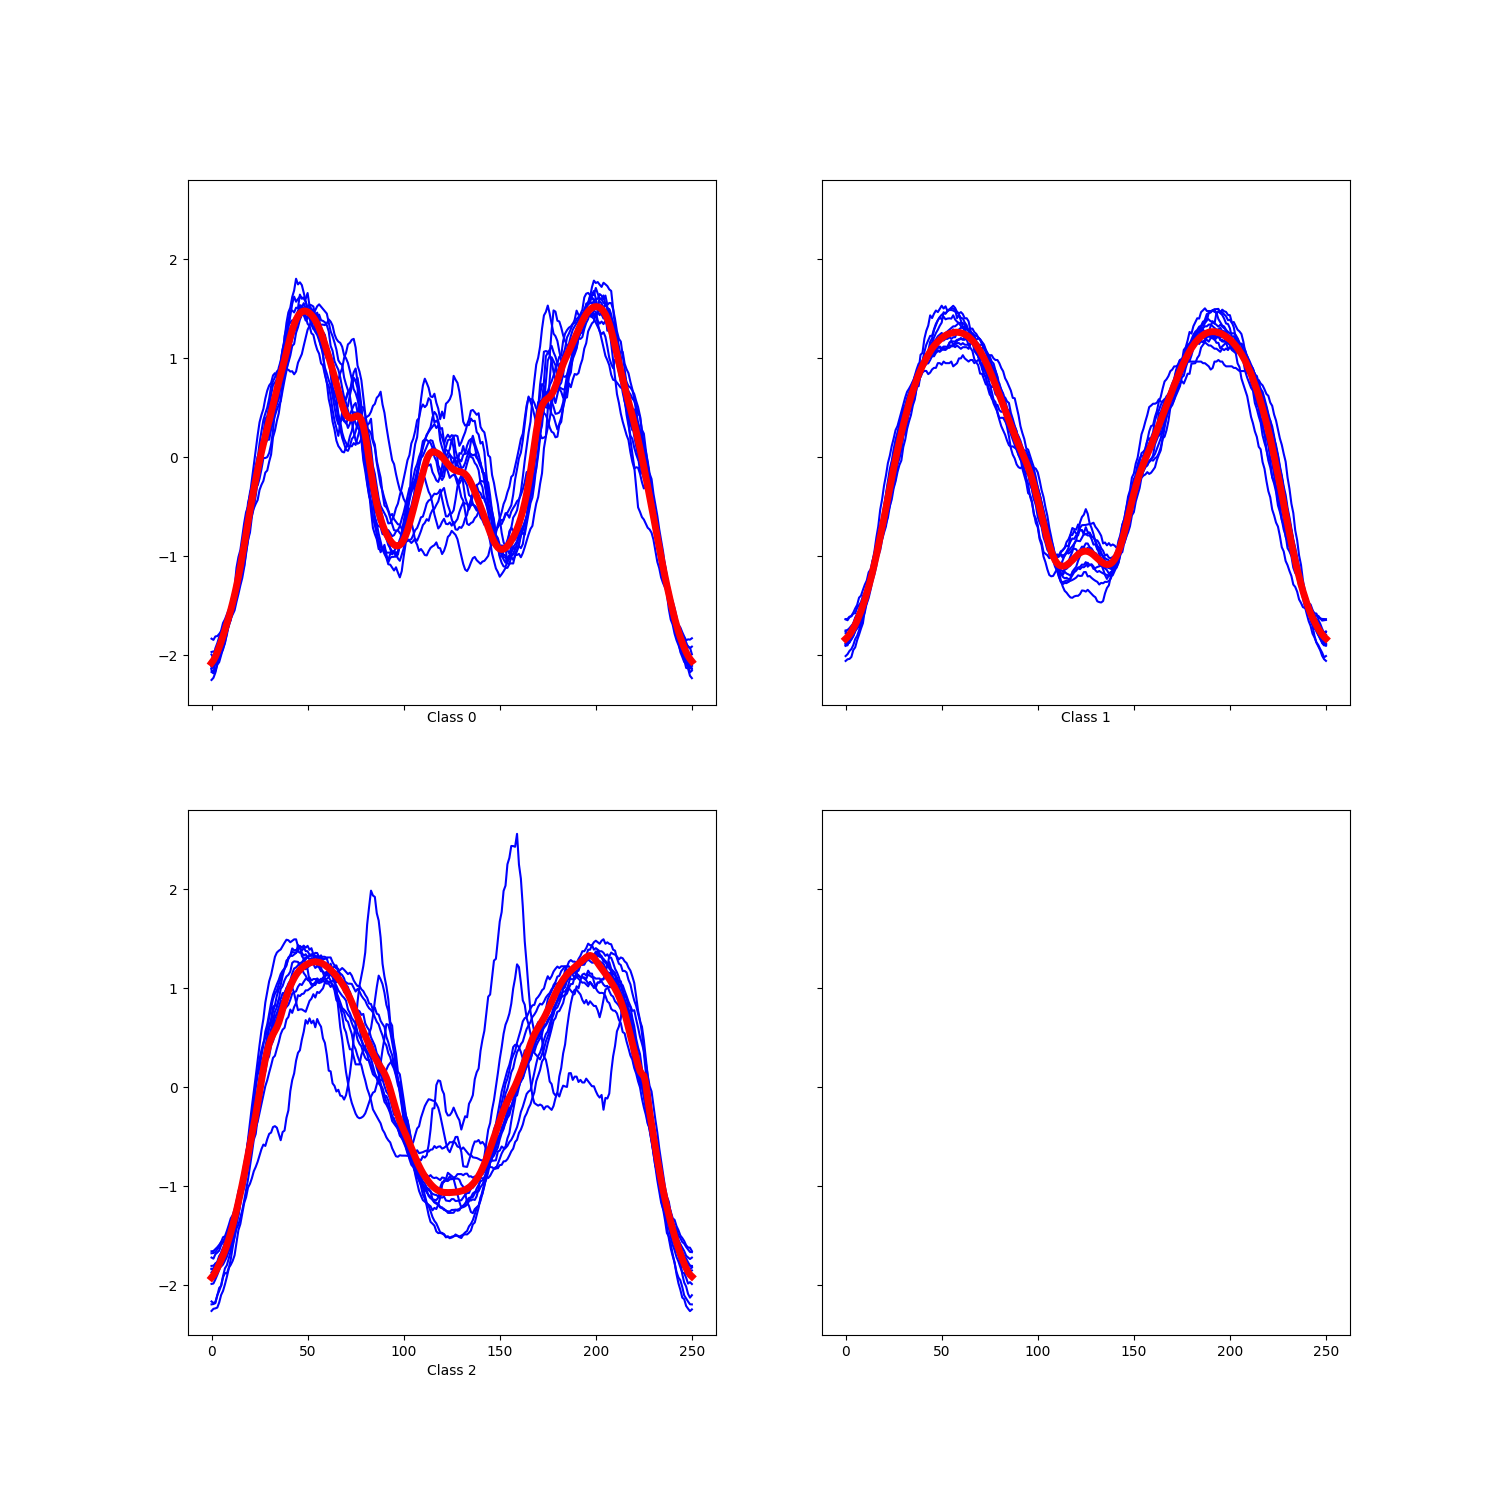
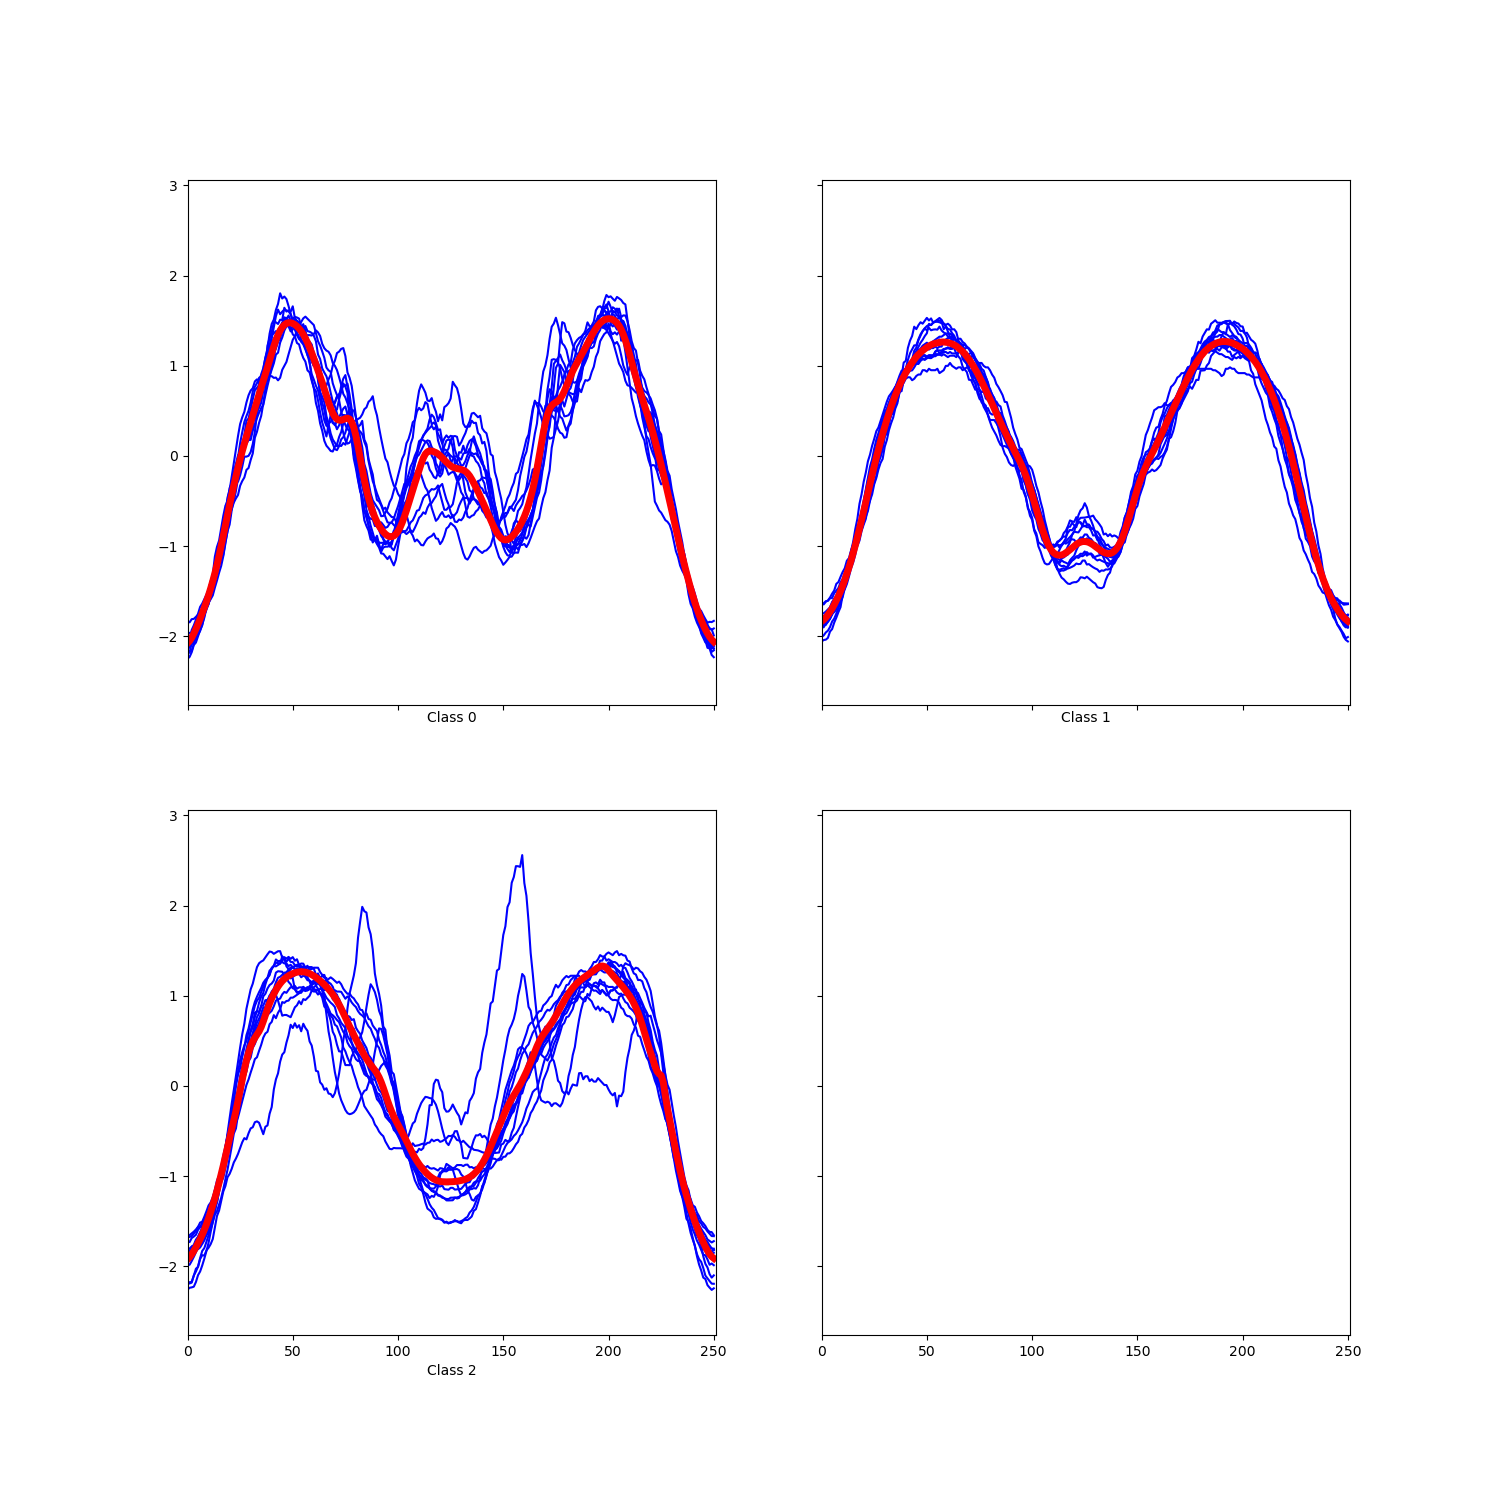
gif

diff --git a/utils.py b/utils.py
@@ -6,6 +6,7 @@ from tslearn.barycenters import softdtw_barycenter
 import matplotlib.pyplot as plt
 import matplotlib.figure as mfig
 from tslearn.metrics import soft_dtw
+import matplotlib.animation as animation
 
 
 def get_labels(y):
@@ -53,6 +54,9 @@ def barrycenters(xtrain, ytrain, labels, num_in_each_label):
 
 
 def draw(xtrain, ytrain, labels, barrycenters, path):
+    x=np.arange(0,int(xtrain.shape[1]),step=1)
+    amin=np.amin(xtrain)
+    amax=np.amax(xtrain)
     N = labels.size
     n = N // 2
     m = N - n
@@ -64,6 +68,8 @@ def draw(xtrain, ytrain, labels, barrycenters, path):
             n, m = m, n
     f, sub = plt.subplots(nrows=2, ncols=n, squeeze=False, sharex=True, sharey=True,figsize=(15,15))
     for i in range(n):
+        sub[0][i].set_xlim(0,len(x))
+        sub[0][i].set_ylim(amin-0.5,amax+0.5)
         for j in range(ytrain.size):
             if (ytrain[j] == labels[i]):
                 sub[0][i].plot(xtrain[j], c="blue")
@@ -71,6 +77,8 @@ def draw(xtrain, ytrain, labels, barrycenters, path):
         str = f"Class {labels[i]}"
         sub[0][i].set_xlabel(str)
     for i in range(m):
+        sub[1][i].set_xlim(0,len(x))
+        sub[1][i].set_ylim(amin-0.5,amax+0.5)
         for j in range(ytrain.size):
             if (ytrain[j] == labels[i + n]):
                 sub[1][i].plot(xtrain[j], c="blue")
@@ -78,10 +86,77 @@ def draw(xtrain, ytrain, labels, barrycenters, path):
         str = f"Class {labels[i + n]}"
         sub[1][i].set_xlabel(str)
     f.savefig(path)
+    # plt.show()
 
+def draw_animation(xtrain, ytrain, labels, barrycenters):
+    intv=10
+    x=np.arange(0,int(xtrain.shape[1]),step=1)
+    amin=np.amin(xtrain)
+    amax=np.amax(xtrain)
+    N = labels.size
+    n = N // 2
+    m = N - n
+    if (N == 2):
+        n = N
+        m = 0
+    elif (N % 2 == 1):
+        if (n < m):
+            n, m = m, n
+    f, sub = plt.subplots(nrows=2, ncols=n, squeeze=False, sharex=True, sharey=True,figsize=(15,15))
+    anim=[]
+    for i in range(n):
+        xtrain_plot=[]
+        sub[0][i].set_xlim(0,len(x))
+        sub[0][i].set_ylim(amin-0.5,amax+0.5)
+        indices=[]
+        for j in range(ytrain.size):
+            if (ytrain[j] == labels[i]):
+                xtrain_plot.append(sub[0][i].plot([],[],color="blue"))
+                indices.append(j)
+        def temp1(i,xtrain_plot,indices,xtrain):
+            def animate1(u):
+                for itr in range(len(xtrain_plot)):
+                    xtrain_plot[itr][0].set_data(x[:u],xtrain[indices[itr],:u])
+            return animate1
+        anim.append(animation.FuncAnimation(f,temp1(i,xtrain_plot,indices,xtrain),frames=len(x),interval=intv))
+
+        bary_plot1, = sub[0][i].plot([],[],color="red",lw=5)
+        def temp_bary1(i,bary_plot1,barrycenters):
+            def animate_barry1(u):
+                bary_plot1.set_data(x[:u],barrycenters[i,:u])
+            return animate_barry1
+        anim.append(animation.FuncAnimation(f,temp_bary1(i,bary_plot1,barrycenters),frames=len(x),interval=intv))
+        str = f"Class {labels[i]}"
+        sub[0][i].set_xlabel(str)
+
+    for i in range(m):
+        xtrain_plot=[]
+        sub[1][i].set_xlim(0,len(x))
+        sub[1][i].set_ylim(amin-0.5,amax+0.5)
+        indices=[]
+        for j in range(ytrain.size):
+            if (ytrain[j] == labels[i + n]):
+                xtrain_plot.append(sub[1][i].plot([],[],color="blue"))
+                indices.append(j)
+        def temp2(i,xtrain_plot,indices,xtrain):
+            def animate2(u):
+                for itr in range(len(xtrain_plot)):
+                    xtrain_plot[itr][0].set_data(x[:u],xtrain[indices[itr],:u])
+            return animate2
+        anim.append(animation.FuncAnimation(f,temp2(i,xtrain_plot,indices,xtrain),frames=len(x),interval=intv))
+
+        bary_plot2, = sub[1][i].plot([],[],color="red",lw=5)
+        def temp_bary2(i,bary_plot2,barrycenters):
+            def animate_barry2(u):
+                bary_plot2.set_data(x[:u],barrycenters[i+n,:u])
+            return animate_barry2
+        anim.append(animation.FuncAnimation(f,temp_bary2(i,bary_plot2,barrycenters),frames=len(x),interval=intv))
+        str = f"Class {labels[i + n]}"
+        sub[1][i].set_xlabel(str)
+    plt.show()
 
 def load_data(file_name):
-    folder_path = "/home/hadi/data sets/UCRArchive_2018/"
+    folder_path = "/media/hadi/laban/data_sets/UCRArchive_2018/"
     folder_path += (file_name + "/")
     train_path = folder_path + file_name + "_TRAIN.tsv"
     test_path = folder_path + file_name + "_TEST.tsv"

diff --git a/main.py b/main.py
@@ -6,20 +6,21 @@ import matplotlib.pyplot as plt
 from utils import get_labels
 from utils import barrycenters
 from utils import get_num_in_each_label
-from utils import draw
+from utils import draw, draw_animation
 import os
 import shutil
 
 np.random.seed(1)
 
-files=['Lightning2','Lightning7','Meat','MedicalImages','MiddlePhalanxOutlineAgeGroup','MiddlePhalanxOutlineCorrect']
+files=['Coffee']
 
 for file_name in files:
 	print(file_name)
 	xtrain,ytrain,xtest,ytest=load_data(file_name)
-	path='/home/hadi/github_files/Soft_dtw_draw/results/'+file_name+'.png'
+	path='/media/hadi/laban/github_files/Soft_dtw_draw/results/'+file_name+'.png'
 	labels=get_labels(ytrain)
 	xtrain,xtest=normalisation(xtrain,xtest)
 	num_in_each_label=get_num_in_each_label(ytrain,labels)
 	barrycenters_array=barrycenters(xtrain,ytrain,labels,num_in_each_label)
-	draw(xtrain,ytrain,labels,barrycenters_array,path)
+	# draw(xtrain,ytrain,labels,barrycenters_array,path)
+	draw_animation(xtrain,ytrain,labels,barrycenters_array)
